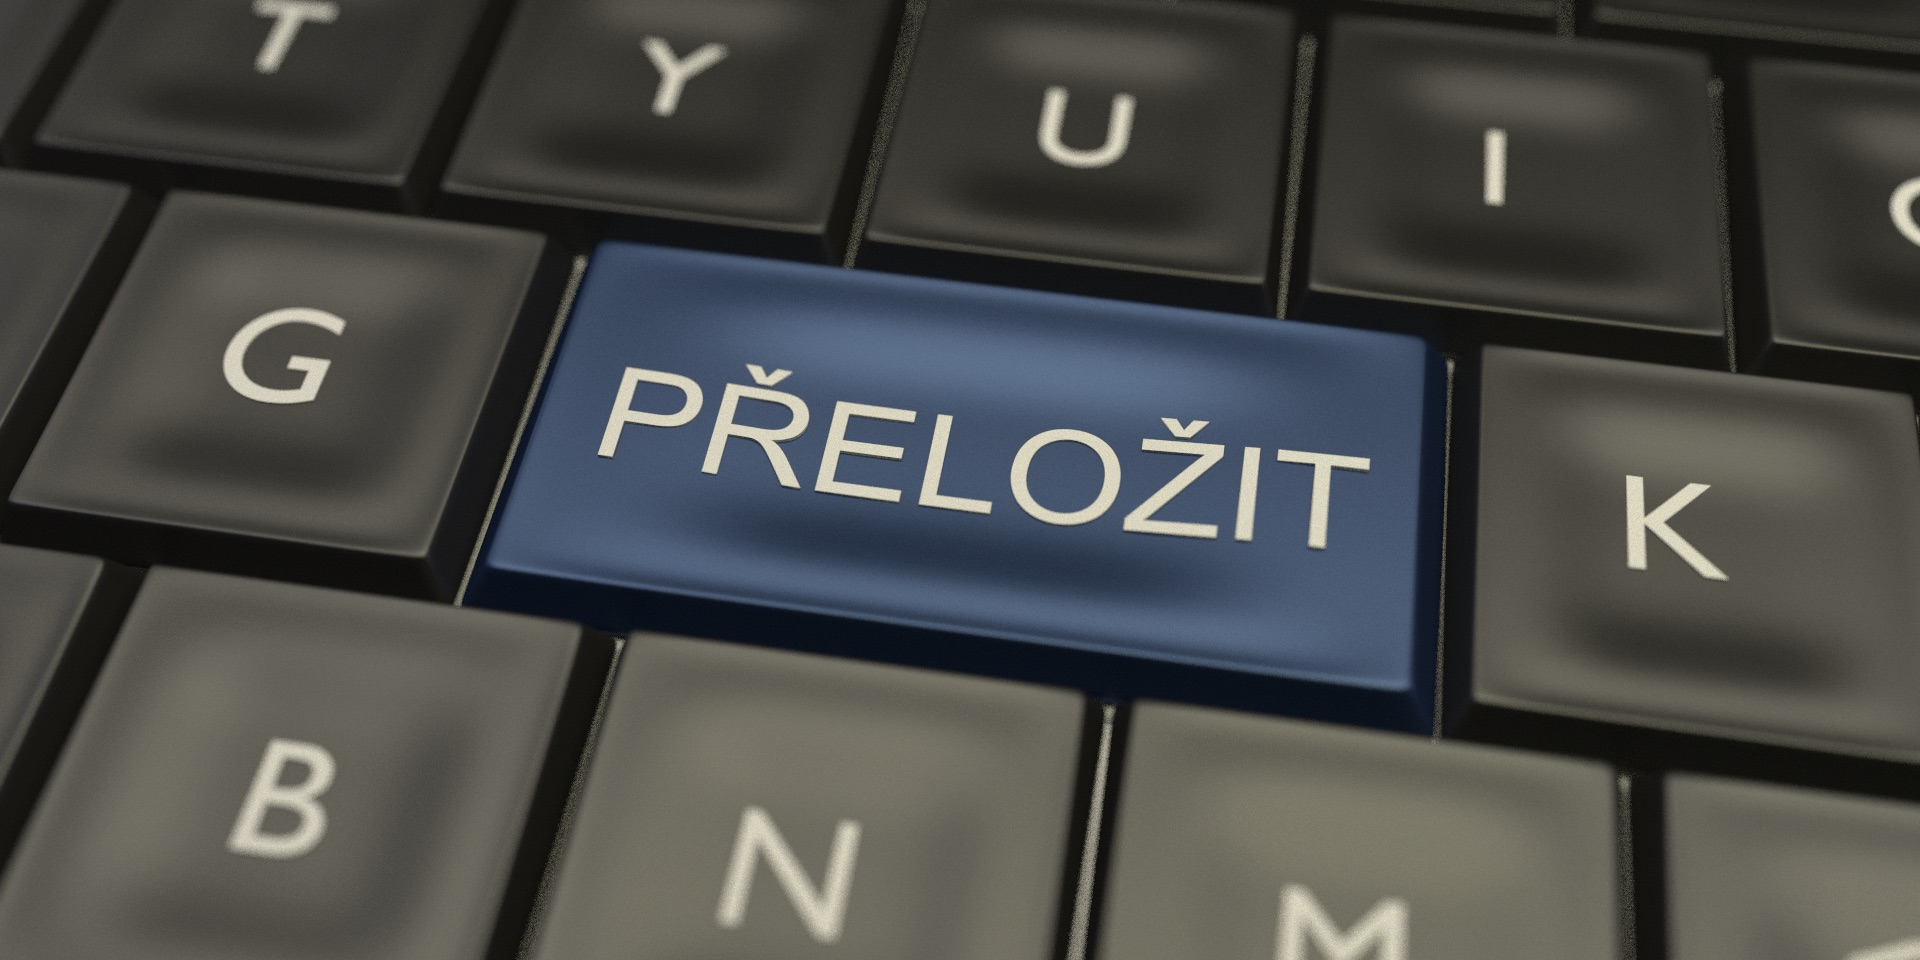
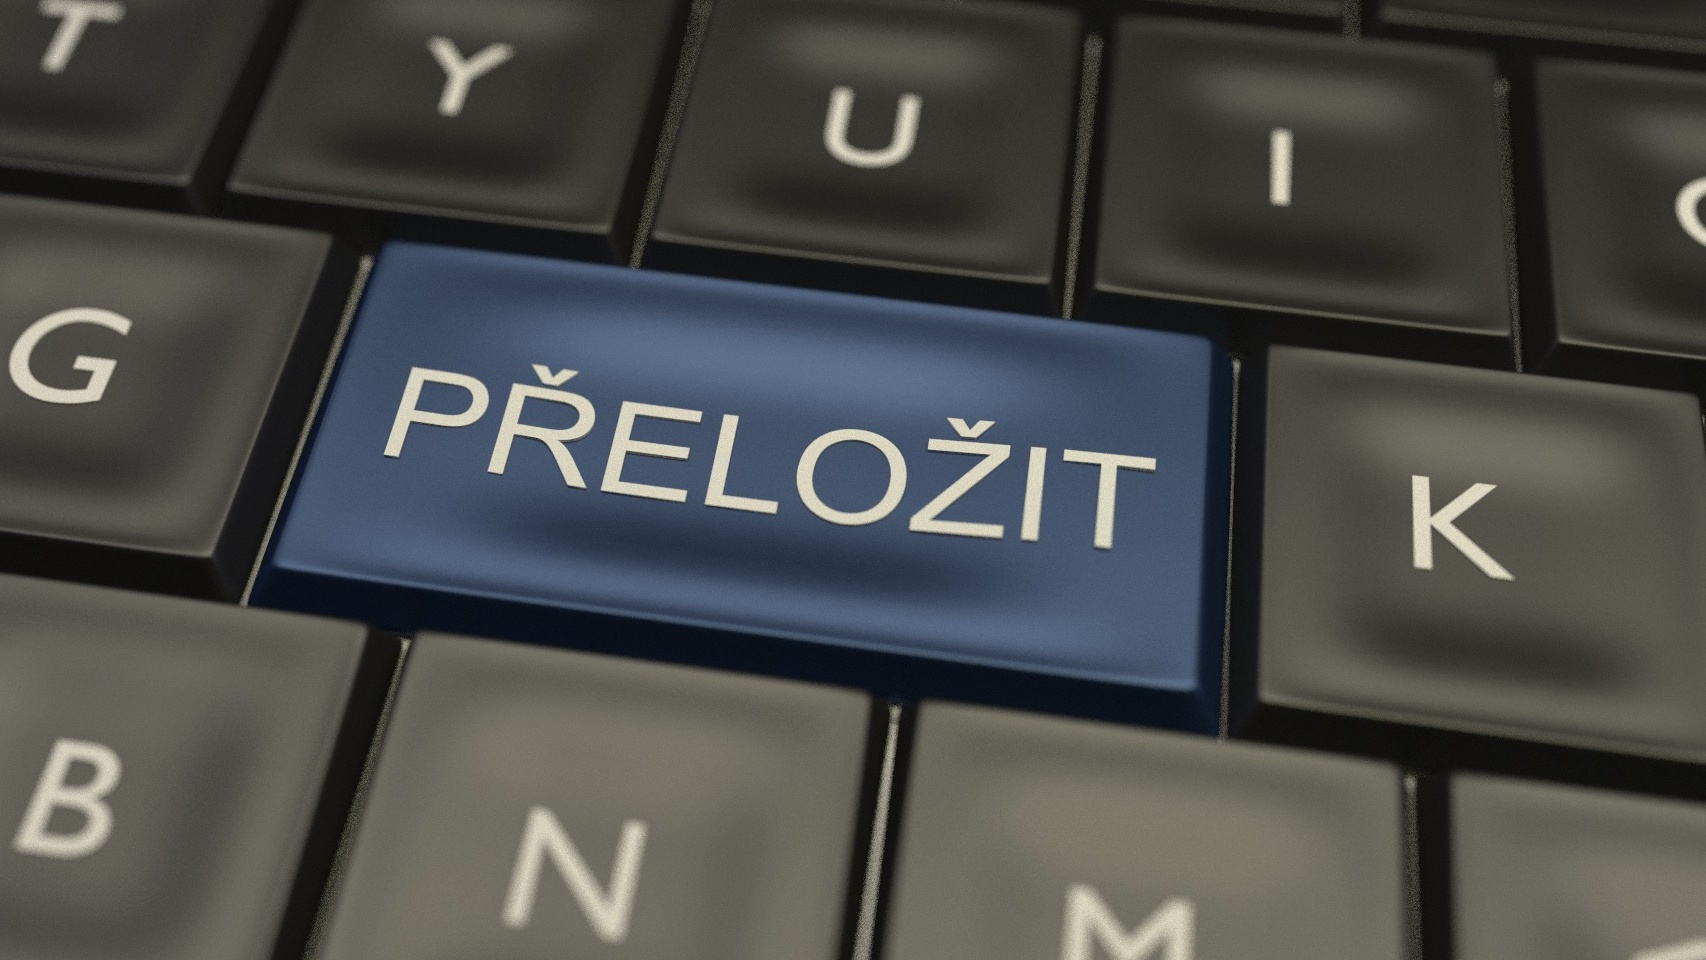
Changed aspect ratio of images

diff --git a/components/Card/Card.tsx b/components/Card/Card.tsx
@@ -34,7 +34,7 @@ const Card: React.FC<Props> = (props: Props) => {
         <figure className="image">
           <SwitchTransition>
             <CSSTransition key={imageSrc} classNames="fade" timeout={300}>
-              <img key="image" src={imageSrc} className="rounded-corners-top" />
+              <img key="image" src={imageSrc} width="100%" height="100%" className="rounded-corners-top" />
             </CSSTransition>
           </SwitchTransition>
         </figure>
